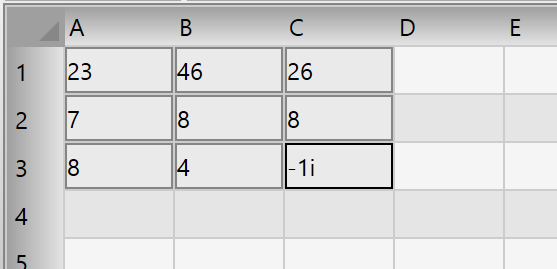
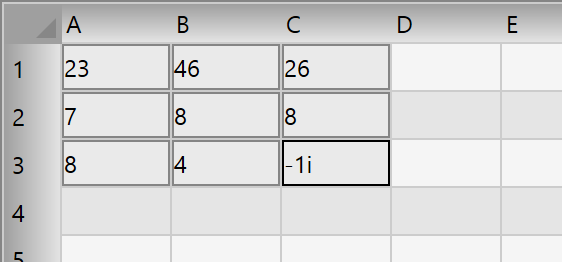
Some HowTo images have been added.

Changed region(s): [[0.0, 0.0, 1.0, 1.0]]

diff --git a/PowerCalc/Resources/Documents/HowTo/WorksheetNavigateByInputHistory.xaml b/PowerCalc/Resources/Documents/HowTo/WorksheetNavigateByInputHistory.xaml
@@ -27,6 +27,10 @@
     </List>
 
     <Paragraph>
-        <controls:ThemedImage Stretch="None" Source="/Resources/Documents/HowTo/Images/navigate_by_input_history.Grayscale.png" />
+        <controls:ThemedImage Stretch="None" Source="/Resources/Documents/HowTo/Images/navigate_by_input_history.Blue.png">
+            <controls:ThemedImage.LayoutTransform>
+                <ScaleTransform ScaleX="0.6" ScaleY="0.6" />
+            </controls:ThemedImage.LayoutTransform>
+        </controls:ThemedImage>
     </Paragraph>
 </FlowDocument>

diff --git a/PowerCalc/Resources/Documents/HowTo/MatricesClipboard.xaml b/PowerCalc/Resources/Documents/HowTo/MatricesClipboard.xaml
@@ -38,6 +38,10 @@
     </List>
 
     <Paragraph>
-        <controls:ThemedImage Stretch="None" Source="/Resources/Documents/HowTo/Images/matrices_clipboard.Grayscale.png" />
+        <controls:ThemedImage Stretch="None" Source="/Resources/Documents/HowTo/Images/matrices_clipboard.Blue.png">
+            <controls:ThemedImage.LayoutTransform>
+                <ScaleTransform ScaleX="0.6" ScaleY="0.6" />
+            </controls:ThemedImage.LayoutTransform>
+        </controls:ThemedImage>
     </Paragraph>
 </FlowDocument>

diff --git a/PowerCalc/Resources/Documents/HowTo/WorksheetInsertFunction.xaml b/PowerCalc/Resources/Documents/HowTo/WorksheetInsertFunction.xaml
@@ -32,6 +32,10 @@
     </List>
 
     <Paragraph>
-        <controls:ThemedImage Stretch="None" Source="/Resources/Documents/HowTo/Images/insert_function.Grayscale.png" />
+        <controls:ThemedImage Stretch="None" Source="/Resources/Documents/HowTo/Images/insert_function.Blue.png">
+            <controls:ThemedImage.LayoutTransform>
+                <ScaleTransform ScaleX="0.6" ScaleY="0.6" />
+            </controls:ThemedImage.LayoutTransform>
+        </controls:ThemedImage>
     </Paragraph>
 </FlowDocument>
